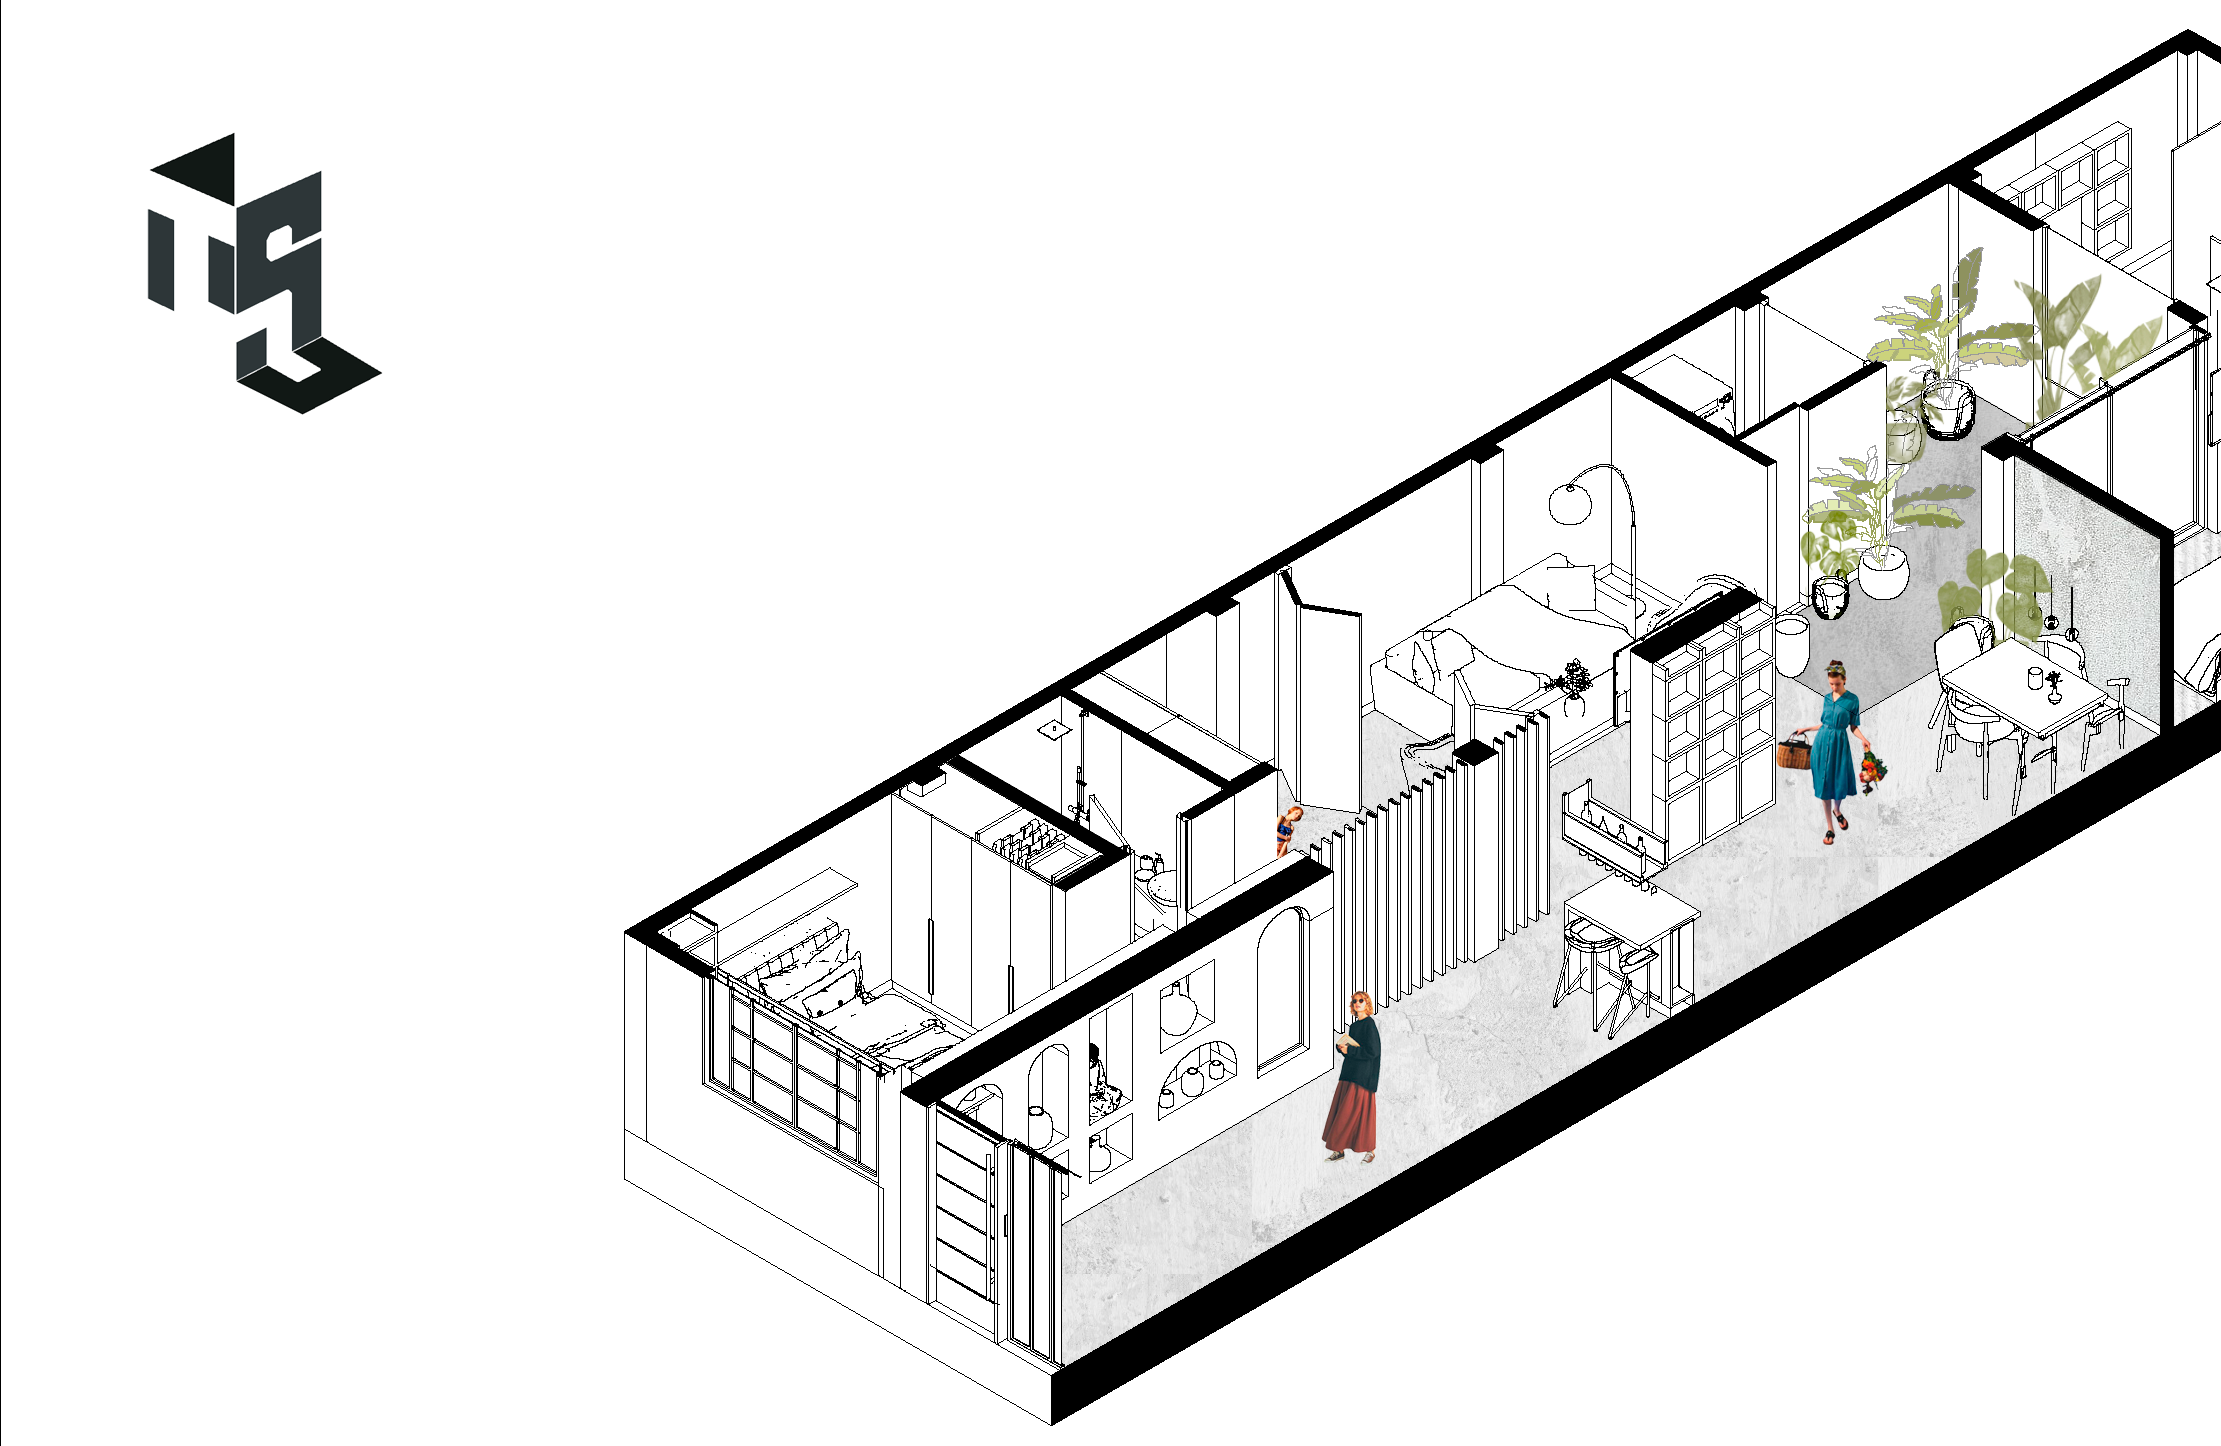
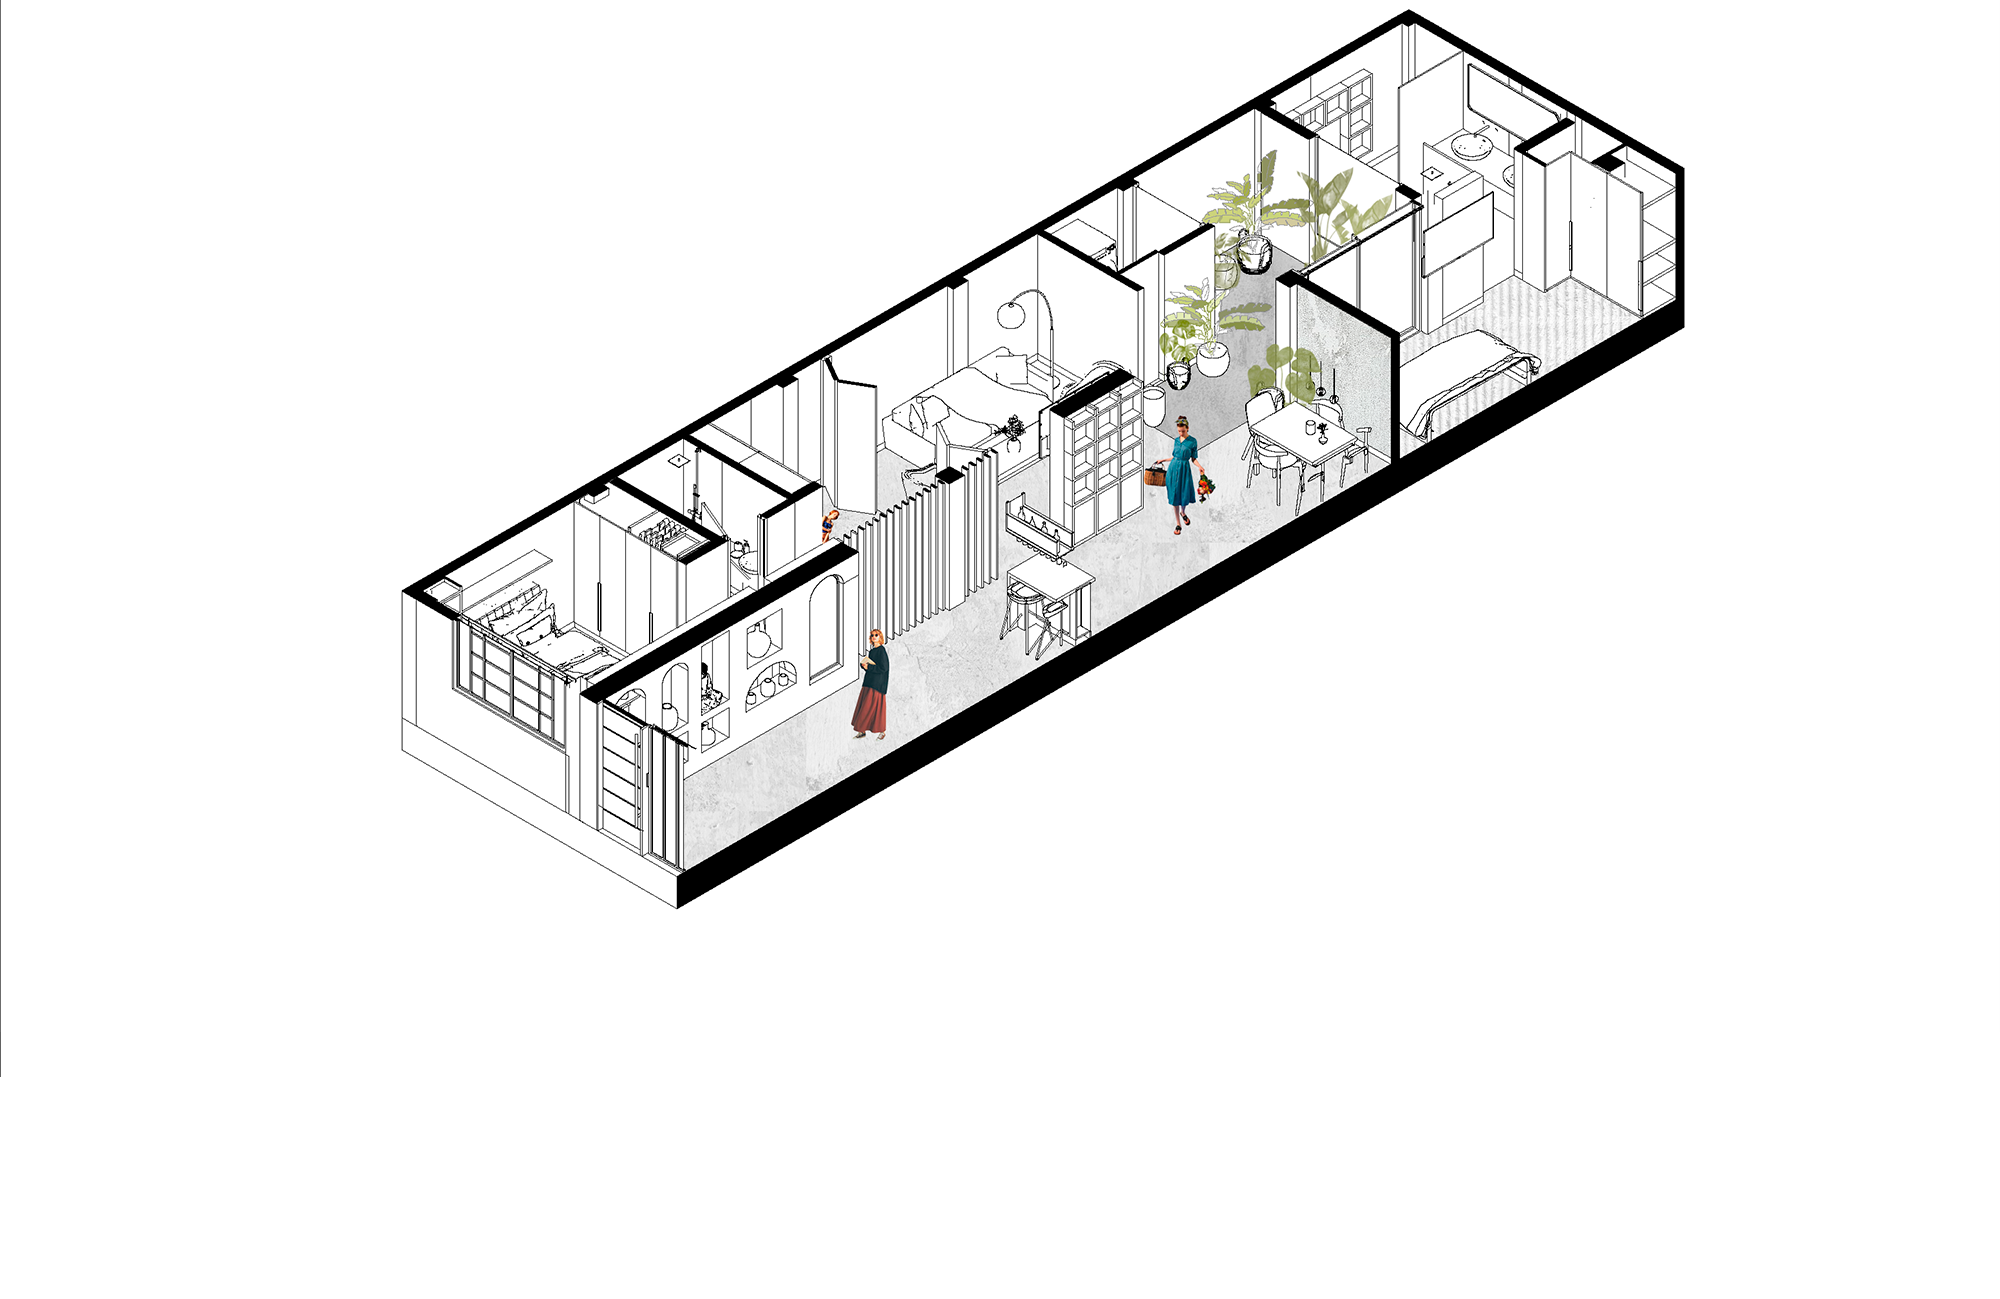
cambio de portada

Changed region(s): [[0.186, 0.0, 1.0, 0.9854], [0.062, 0.0924, 0.186, 0.3079]]

diff --git a/index.html b/index.html
@@ -69,8 +69,8 @@ header {
     }
 section.welcome-image {
   display: flex;
-  justify-content: center;
-  align-items: center;
+  justify-content: right;
+  align-items: right;
   overflow: hidden; /* Evita que la imagen salga del contenedor */
   height: 50vh; /* Ajusta el tamaño del contenedor, por ejemplo, la mitad de la altura de la pantalla */
 }
@@ -483,7 +483,7 @@ section.welcome-image img {
   </header>
 
 <section class="welcome-image">
-  <img src="img/PORTADA4.png" alt="Bienvenida">
+  <img src="img/PORTADA2.png" alt="Bienvenida">
 </section>
 
   <main>
